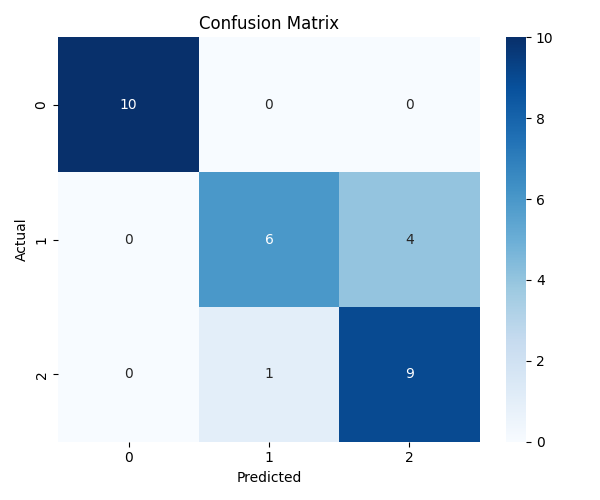
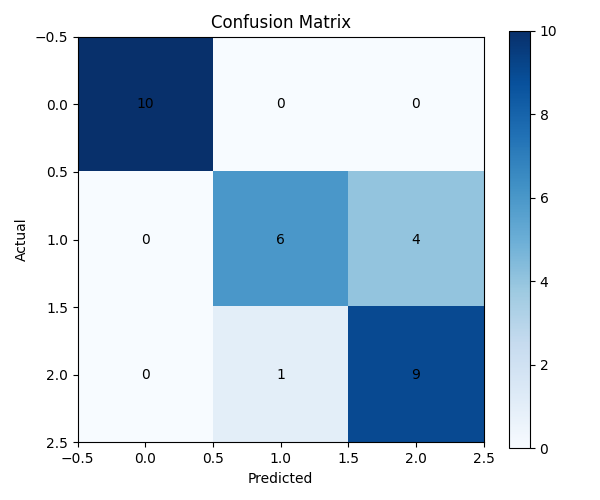
upgrade

diff --git a/main.py b/main.py
@@ -4,7 +4,7 @@ from sklearn.pipeline import make_pipeline
 from sklearn.preprocessing import StandardScaler
 
 from src.load_data import load_data
-from src.preprocess import preprocess
+
 from src.model import build_model
 from src.train import train_model
 from src.evaluate import evaluate
@@ -18,7 +18,8 @@ from src.visualize import (
 from sklearn.linear_model import LogisticRegression
 from src.cross_validation import cross_validate
 from src.config_loader import load_config
-from src.train_with_loss import train_with_loss
+from src.train_with_validation import train_with_validation
+
 
 def main():
     # 1. Load config
@@ -27,8 +28,8 @@ def main():
     # 2. Load data
     X, y = load_data("data/iris.csv")
 
-    # 3. Cross-validation
-    print("---Thực hiện Cross-Validation (K=5)---")
+    # 3. Cross-Validation (Scaler + Model)
+    print("--- Thực hiện Cross-Validation (K=5) ---")
 
     pipeline = make_pipeline(
         StandardScaler(),
@@ -41,50 +42,50 @@ def main():
         random_state=config["data"]["random_state"]
     )
 
-    scores = cross_val_score(
+    cv_scores = cross_val_score(
         pipeline,
         X, y,
         cv=cv,
         scoring="accuracy"
     )
 
-    print(f"Kết quả từng fold: {scores}")
-    print(f"Accuracy trung bình: {np.mean(scores):.4f} ± {np.std(scores):.4f}")
-    print("-------------------------------------------\n")
+    print(f"Kết quả từng fold: {cv_scores}")
+    print(f"Accuracy trung bình: {np.mean(cv_scores):.4f} ± {np.std(cv_scores):.4f}")
+    print("----------------------------------------\n")
 
     # 4. Train / Test split
     X_train, X_test, y_train, y_test = train_test_split(
-    X, y,  # ← Từ toàn bộ dữ liệu
-    test_size=config["data"]["test_size"],
-    random_state=config["data"]["random_state"],
-    stratify=y
+        X, y,
+        test_size=config["data"]["test_size"],
+        random_state=config["data"]["random_state"],
+        stratify=y
     )
 
-    # 5. Train / Validation split (từ train)
+    # 5. Train / Validation split
     X_train, X_val, y_train, y_val = train_test_split(
-    X_train,  # ← Lúc này X_train đã có
-    y_train,
-    test_size=0.2,
-    random_state=42,
-    stratify=y_train
+        X_train,
+        y_train,
+        test_size=0.2,
+        random_state=config["data"]["random_state"],
+        stratify=y_train
     )
 
-    # 6. Preprocess (fit trên train)
+    # 6. Feature scaling (fit on train only)
     scaler = StandardScaler()
     X_train = scaler.fit_transform(X_train)
     X_val = scaler.transform(X_val)
     X_test = scaler.transform(X_test)
 
-    # 7. Train + train/val loss
+    # 7. Train model with validation loss
     model = build_model(config)
-    model, train_losses, val_losses = train_with_loss(
+    model, train_losses, val_losses = train_with_validation(
         model,
         X_train, y_train,
         X_val, y_val,
         epochs=200
     )
 
-    # 8. Evaluate
+    # 8. Evaluate on test set
     y_pred = evaluate(model, X_test, y_test)
 
     # 9. Visualization
@@ -93,12 +94,13 @@ def main():
         "results/confusion_matrix.png"
     )
 
+    # PCA visualization only (not used for training or evaluation)
     plot_pca_2d_with_boundary(
-    X, y,
-    LogisticRegression(max_iter=1000),
-    "results/pca_2d_boundary.png"
+        X, y,
+        LogisticRegression(max_iter=1000),
+        "results/pca_2d_boundary.png"
     )
-       
+
     plot_pca_3d(
         X, y,
         "results/pca_3d.png"
@@ -109,17 +111,13 @@ def main():
         val_losses,
         "results/train_val_loss.png"
     )
-    
-    scores = cross_val_score(
-    pipeline,
-    X, y,
-    cv=cv,
-    scoring="accuracy"
-    )
+
     plot_cross_validation(
-    scores,
-    "results/cross_validation_chart.png"
+        cv_scores,
+        "results/cross_validation_chart.png"
     )
+
+
 
 if __name__ == "__main__":
     main()

diff --git a/decision_boundary.py b/decision_boundary.py
@@ -1,0 +1,96 @@
+import numpy as np
+import matplotlib.pyplot as plt
+import os
+
+from sklearn import datasets
+from sklearn.linear_model import LogisticRegression
+from sklearn.svm import SVC
+from sklearn.neighbors import KNeighborsClassifier
+from sklearn.inspection import DecisionBoundaryDisplay
+from sklearn.pipeline import make_pipeline
+from sklearn.preprocessing import StandardScaler
+
+# ===================== 1. LOAD DATA =====================
+iris = datasets.load_iris()
+
+# Chỉ lấy 2 feature để vẽ decision boundary
+# Petal length & Petal width
+X = iris.data[:, 2:]
+y = iris.target
+
+# ===================== 2. DEFINE MODELS =====================
+models = [
+    make_pipeline(
+        StandardScaler(),
+        LogisticRegression(
+            solver="lbfgs",
+            C=1e5,
+            max_iter=1000
+        )
+    ),
+    make_pipeline(
+        StandardScaler(),
+        SVC(
+            kernel="rbf",
+            gamma=0.7
+        )
+    ),
+    make_pipeline(
+        StandardScaler(),
+        KNeighborsClassifier(
+            n_neighbors=3
+        )
+    )
+]
+
+titles = [
+    "Softmax Regression (Linear Decision Boundary)",
+    "SVM with RBF Kernel (Non-linear)",
+    "KNN (Non-linear)"
+]
+
+# ===================== 3. PLOT =====================
+fig, axes = plt.subplots(1, 3, figsize=(18, 5))
+
+for i, model in enumerate(models):
+    # Train model
+    model.fit(X, y)
+
+    # Decision boundary
+    DecisionBoundaryDisplay.from_estimator(
+        model,
+        X,
+        cmap=plt.cm.coolwarm,
+        alpha=0.6,
+        ax=axes[i],
+        response_method="predict"
+    )
+
+    # Scatter points
+    axes[i].scatter(
+        X[:, 0],
+        X[:, 1],
+        c=y,
+        cmap=plt.cm.coolwarm,
+        edgecolors="k"
+    )
+
+    axes[i].set_title(titles[i])
+    axes[i].set_xlabel("Petal length")
+    axes[i].set_ylabel("Petal width")
+
+plt.tight_layout()
+
+# ===================== 4. SAVE FIGURE =====================
+output_dir = "results"
+os.makedirs(output_dir, exist_ok=True)
+
+file_path = os.path.join(
+    output_dir,
+    "comparison_decision_boundaries.png"
+)
+
+plt.savefig(file_path)
+print(f"Đã lưu hình ảnh tại: {file_path}")
+
+plt.show()

diff --git a/src/visualize.py b/src/visualize.py
@@ -10,7 +10,13 @@ def plot_confusion_matrix(y_test, y_pred, save_path):
     cm = confusion_matrix(y_test, y_pred)
 
     plt.figure(figsize=(6, 5))
-    sns.heatmap(cm, annot=True, fmt="d", cmap="Blues")
+    plt.imshow(cm, cmap="Blues")
+    plt.colorbar()
+
+    for i in range(cm.shape[0]):
+        for j in range(cm.shape[1]):
+            plt.text(j, i, cm[i, j], ha="center", va="center")
+
     plt.xlabel("Predicted")
     plt.ylabel("Actual")
     plt.title("Confusion Matrix")
@@ -19,10 +25,11 @@ def plot_confusion_matrix(y_test, y_pred, save_path):
     plt.show()
 
 
+
 # ================= PCA 3D VISUALIZATION =================
 def plot_pca_3d(X, y, save_path):
     """
-    Dùng toàn bộ 4 feature -> PCA -> 3D
+    PCA visualization only (NOT used for training or evaluation)
     """
 
     # 1. Chuẩn hóa
@@ -118,12 +125,12 @@ def plot_cross_validation(scores, save_path):
     folds = np.arange(1, len(scores) + 1)
 
     plt.figure(figsize=(6, 5))
-    sns.lineplot(x=folds, y=scores, marker="o")
+    plt.plot(folds, scores, marker="o", label="Fold accuracy")
     plt.axhline(
         y=np.mean(scores),
         linestyle="--",
         color="red",
-        label=f"Mean accuracy = {np.mean(scores):.2f}"
+        label=f"Mean = {np.mean(scores):.2f}"
     )
 
     plt.xlabel("Fold")
@@ -132,9 +139,9 @@ def plot_cross_validation(scores, save_path):
     plt.legend()
     plt.grid(True)
     plt.tight_layout()
-
     plt.savefig(save_path)
     plt.show()
+
 
 # ================= TRAIN VS VALIDATION LOSS =================
 def plot_train_val_loss(train_losses, val_losses, save_path):

diff --git a/src/evaluate.py b/src/evaluate.py
@@ -1,10 +1,11 @@
 from sklearn.metrics import accuracy_score, classification_report
 
-def evaluate(model, X_test, y_test):
+def evaluate(model, X_test, y_test, verbose=True):
     y_pred = model.predict(X_test)
 
-    print("Accuracy:", accuracy_score(y_test, y_pred))
-    print("\nClassification Report:\n")
-    print(classification_report(y_test, y_pred))
+    if verbose:
+        print(f"Test Accuracy: {accuracy_score(y_test, y_pred):.4f}")
+        print("\nClassification Report:")
+        print(classification_report(y_test, y_pred))
 
-    return y_pred  
+    return y_pred

diff --git a/src/cross_validation.py b/src/cross_validation.py
@@ -1,10 +1,15 @@
-import numpy as np
+from sklearn.pipeline import make_pipeline
+from sklearn.preprocessing import StandardScaler
 from sklearn.model_selection import cross_val_score
 
 def cross_validate(model, X, y, cv=6):
-   
+    pipeline = make_pipeline(
+        StandardScaler(),
+        model
+    )
+
     scores = cross_val_score(
-        model,
+        pipeline,
         X,
         y,
         cv=cv,

diff --git a/src/preprocess.py b/src/preprocess.py
@@ -2,6 +2,6 @@ from sklearn.preprocessing import StandardScaler
 
 def preprocess(X_train, X_test):
     scaler = StandardScaler()
-    X_train = scaler.fit_transform(X_train)
-    X_test = scaler.transform(X_test)
-    return X_train, X_test
+    X_train_scaled = scaler.fit_transform(X_train)
+    X_test_scaled = scaler.transform(X_test)
+    return X_train_scaled, X_test_scaled, scaler

diff --git a/src/train_with_validation.py b/src/train_with_validation.py
@@ -1,7 +1,7 @@
 import numpy as np
 from sklearn.metrics import log_loss
 
-def train_with_loss(model, X_train, y_train, X_val, y_val, epochs=200):
+def train_with_validation(model, X_train, y_train, X_val, y_val, epochs=200):
     train_losses = []
     val_losses = []
     classes = np.unique(y_train)
